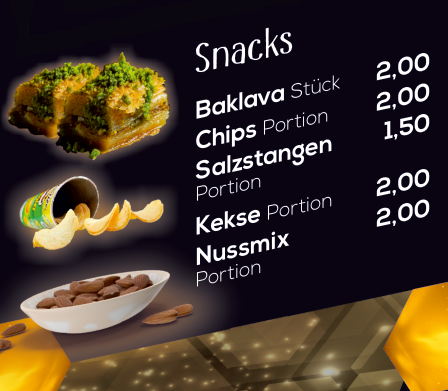
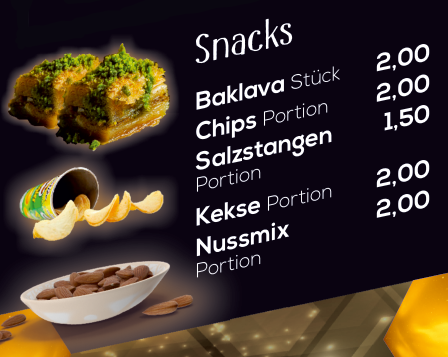
dosya

diff --git a/index.html b/index.html
@@ -25,10 +25,10 @@
 
 
     <div class="menu">
-        <img src="/photos/1.png" alt="">
-        <img src="/photos/2.png" alt="">
-        <img src="/photos/3.png" alt="">
-        <img src="/photos/4.png" alt="">
+        <img src="/photos/1.png" alt="" style="height: 75%;">
+        <img src="/photos/2.png" alt="" style="height: 75%;">
+        <img src="/photos/3.png" alt="" style="height: 75%;">
+        <img src="/photos/4.png" alt="" style="height: 75%;">
         <img src="/photos/7.png" alt="" style="height: 60vh;">
     </div>
 </body>
